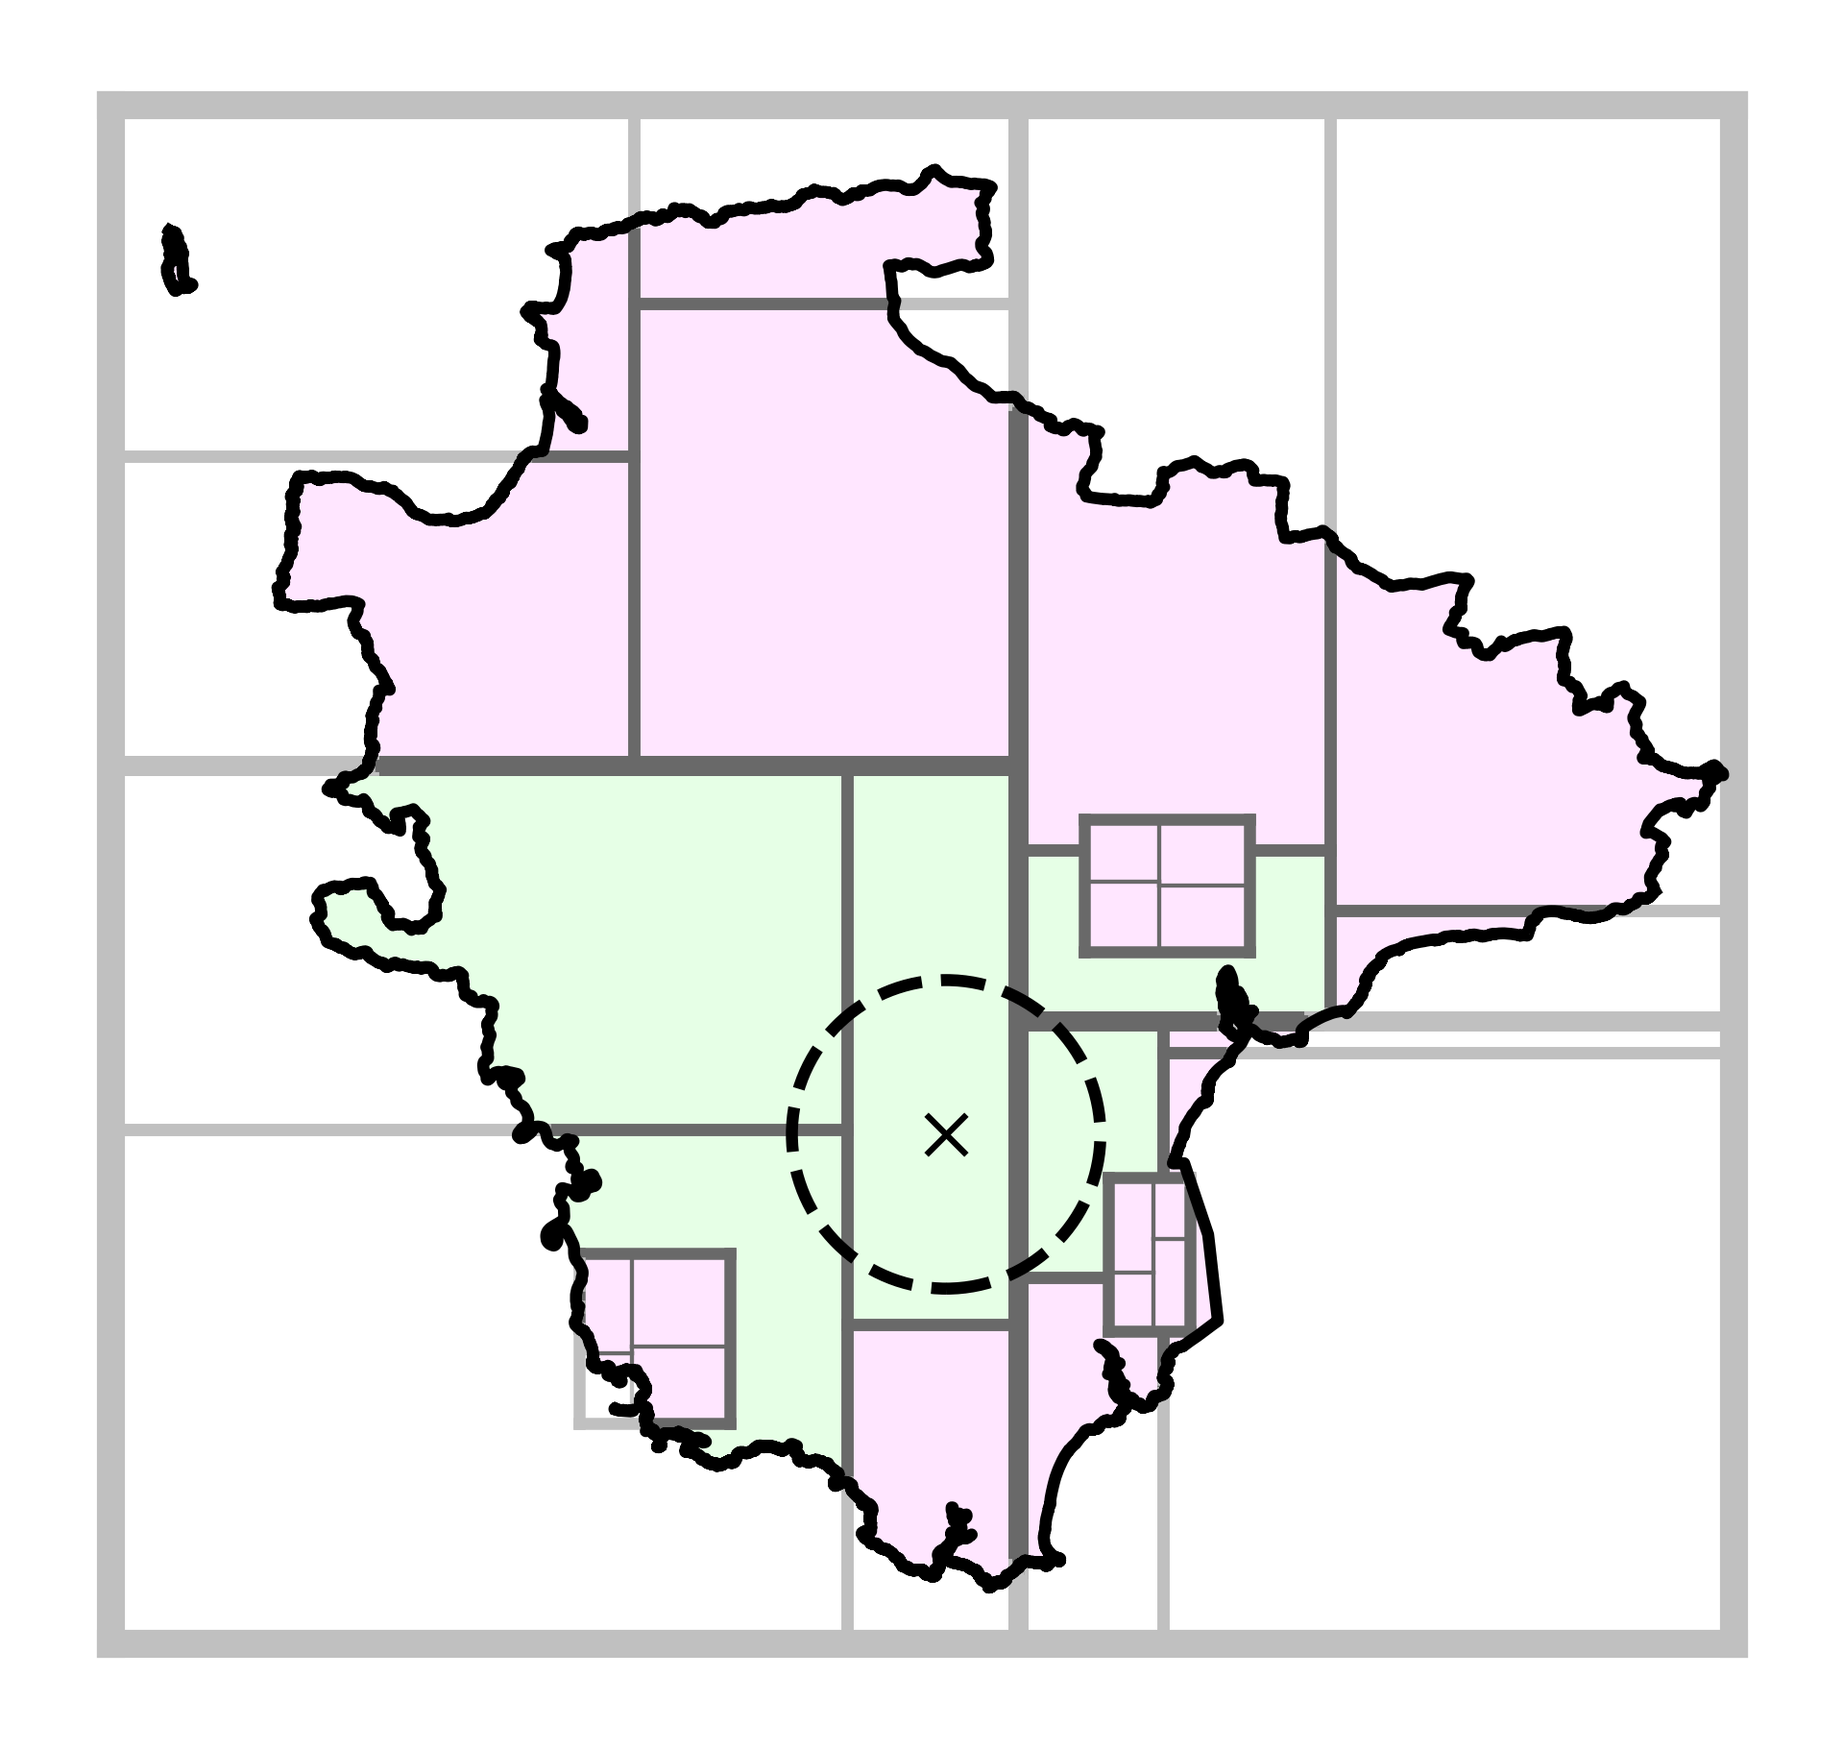
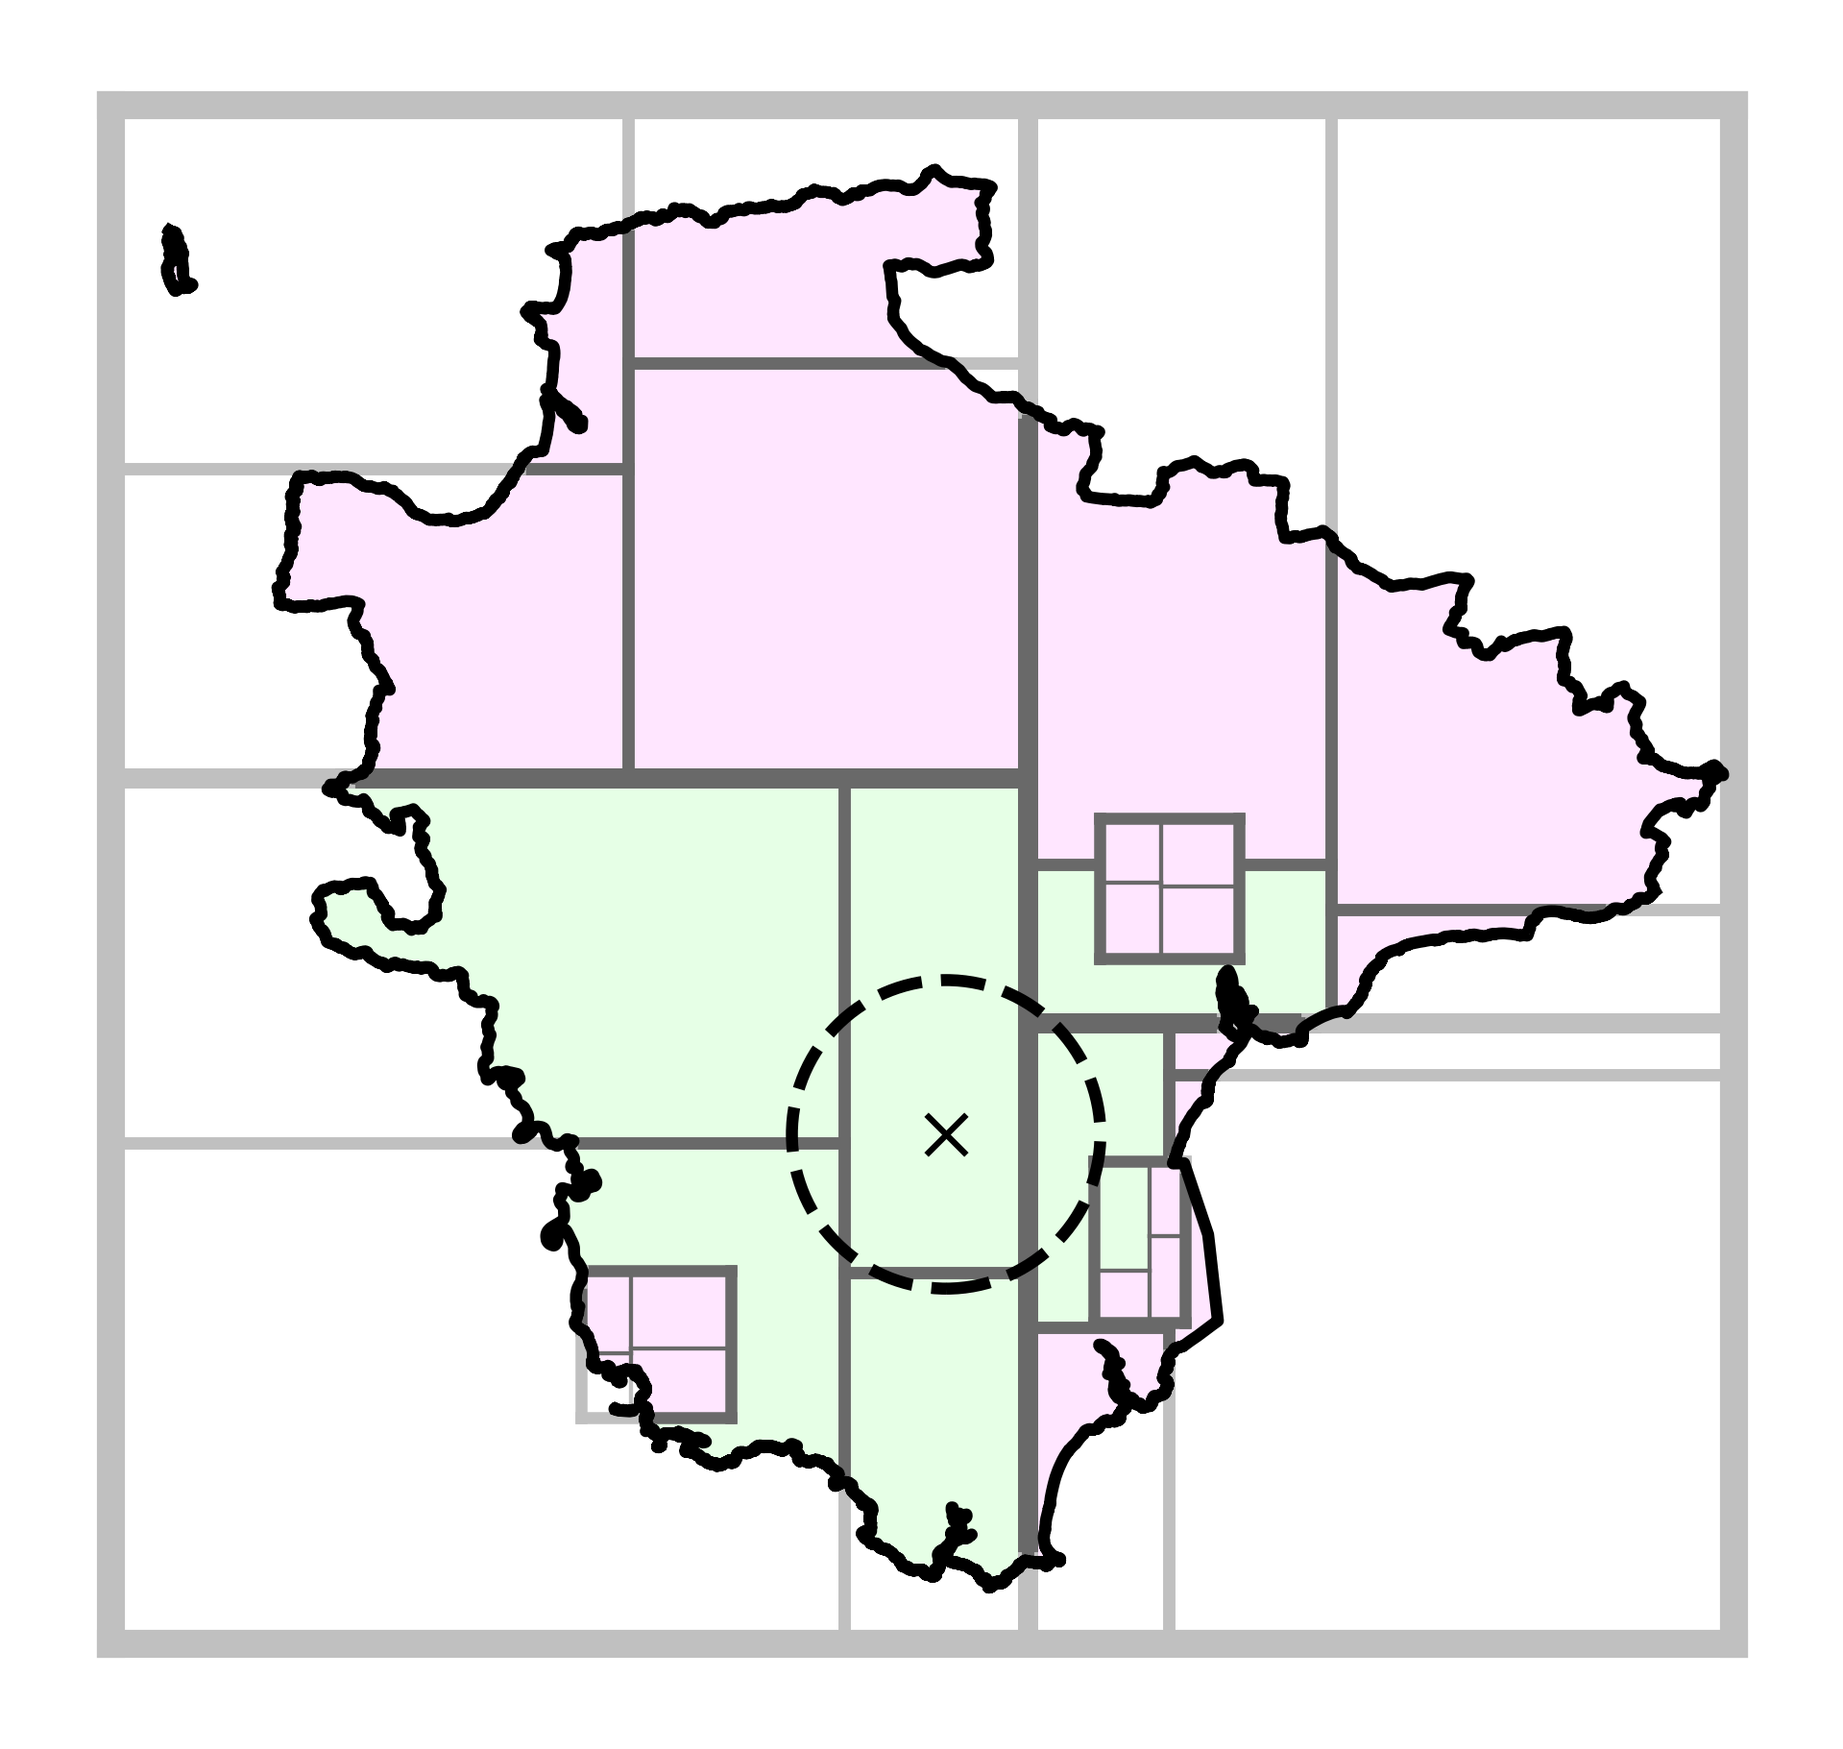
help me

diff --git a/run_tests.py b/run_tests.py
@@ -85,7 +85,7 @@ class test_case(BaseEstimator):
         return {}
     def fit(self, X=None, y=None):
         runs = []
-        for _ in range(3):
+        for _ in range(4):
             self.run(**X)
             runs.append(self.times[-1])
 
@@ -163,11 +163,12 @@ class test_case(BaseEstimator):
             if 'w' in locals():
                 try: os.close(w)
                 except: pass
+        time.sleep(0.5)
 
 class good_case(test_case):
     def __init__(self):
         super().__init__()
-        self.label = "Good"
+        self.label = "R* Tree"
     def subp(self,filename:str, tab:str, col:str, queries_file:str,w):
         return subprocess.Popen(["bin/goodtest",filename,tab,col,queries_file,str(w)],pass_fds=(w,))
 
@@ -194,7 +195,7 @@ class m1_case(test_case):
         super().__init__()
         self.ind_depth = ind_depth
         self.pnum = pnum
-        self.label = "M1"
+        self.label = "Index-Ranges"
     @classmethod
     def get_param_grid(cls):
         return {"ind_depth": [4,6], "pnum": [16,32,64]}
@@ -210,7 +211,7 @@ class m2_case(test_case):
         super().__init__()
         self.ind_depth = ind_depth
         self.min_leaf = min_leaf
-        self.label = "M2"
+        self.label = "Grid"
     @classmethod
     def get_param_grid(cls):
         return {"ind_depth": [4,6], "min_leaf": [128,256]}
@@ -224,7 +225,7 @@ class m3_case(test_case):
         self.b_dep = b_dep
         self.c_min = c_min
         self.c_dep = b_dep
-        self.label = "M3"
+        self.label = "Grid+Clustering"
     @classmethod
     def get_param_grid(cls):
         return {"b_min": [64,128,256], "c_min": [64,128,256],"b_dep":[4],"c_dep":[4]}
@@ -275,14 +276,15 @@ def select_best_from_list(cases:list[test_case]):
             best[i.label] = i
     return best
 
-def graph_final_results(cases:list[test_case]):
+def graph_final_results(cases:list[test_case],flag):
+    fig,ax = plt.subplots(figsize=(10,10))
     xlabs = []
     y = []
     best = select_best_from_list(cases)
     for case in best.values():
         y.append(case.times)
         xlabs.append(case.label)
-    bp = plt.boxplot(y,patch_artist=True,tick_labels=xlabs,showfliers=False)
+    bp = ax.boxplot(y,patch_artist=True,tick_labels=xlabs,showfliers=False)
     for patch in bp['boxes']:
         patch.set_facecolor('mediumseagreen')
         for median in bp['medians']:
@@ -290,13 +292,17 @@ def graph_final_results(cases:list[test_case]):
             median.set_linewidth(2)
 
     #adds labels, title, etc to graph
-    plt.yscale('log',base=10)
-    plt.ylabel("log(time)")
-    plt.title("Average time taken for each test case")
-    plt.grid(axis='y', linestyle='-', alpha=0.5)
+    ax.set_yscale('log',base=10)
+    ax.set_ylabel("log(time)",fontsize=16)
+    ax.tick_params(axis='both', labelsize=20)    
+    if flag == 0:
+        ax.set_title("Times taken to execute a set of queries on the whole dataset",fontsize=20)
+    else:
+        ax.set_title("Times taken to execute a set of queries on the clusters",fontsize=20)
+    ax.grid(axis='y', linestyle='-', alpha=0.5)
 
-    plt.savefig("img/res.png",bbox_inches="tight",dpi=300)
-    plt.show()
+    fig.savefig("img/res"+str(int(time.time()))+".png",bbox_inches="tight",dpi=300)
+    plt.close(fig)
 
 
 
@@ -373,72 +379,36 @@ def write_out_queries(filename:str, queries: list[query]):
     print("written queries to file!\n")
 
 
+def rt(name,flag,reps):
+    qname = "data/"+name
+    cluster.clustering(qname+".dat")
+    if flag == 0:
+        query.generate_query_set(qname+".sqlite",name,"cent",256,32,32,4096,qname+".queries")
+    else:
+        query.generate_clus_query_set(qname+".sqlite",name,"cent",256,qname+".lizard",qname+".queries")
 
-if __name__ == "__main__":
+    
+    X = {"filename": qname + ".sqlite","tab": name,"col": "cent","queries_file": qname + ".queries"}
+    X1 = {"filename": qname + ".sqlite","tab": name,"col": "cent","queries_file": qname + ".queries", "clus": qname+".lizard"}
 
-    for i in range(1,len(sys.argv)):
+    cases = []
+    #cases.append(naive_case.optimise(X))
+    cases.append(good_case.optimise(X))
+    cases.append(m1_case.optimise(X))
+    cases.append(m2_case.optimise(X))
+    m3c = m3_case.optimise(X1)
+    for case in cases:
+        for i in range(reps):
+            case.run(qname+".sqlite",name,"cent",qname+".queries")
+    for i in range(reps):
+        m3c.run(qname+".sqlite",name,"cent",qname+".queries",qname+".lizard")
+    cases.append(m3c)
+    test_case.serialise_list("data/"+name+str(int(time.time()))+".cases",cases)
 
-        name = sys.argv[i]
-        qname = "data/"+name
-        query.generate_query_set(qname+".sqlite",name,"cent",512,32,32,4096,qname+".queries")
-        cluster.clustering(qname+".dat")
-        query.generate_clus_query_set(qname+".sqlite",name,"cent",512,qname+".lizard",qname+".cqueries")
+    graph_final_results(cases,flag)
 
-        
-        X = {"filename": qname + ".sqlite","tab": name,"col": "cent","queries_file": qname + ".queries"}
-        X1 = {"filename": qname + ".sqlite","tab": name,"col": "cent","queries_file": qname + ".queries", "clus": qname+".lizard"}
-
-        cases = []
-        cases.append(naive_case.optimise(X))
-        cases.append(good_case.optimise(X))
-        cases.append(m1_case.optimise(X))
-        cases.append(m2_case.optimise(X))
-        m3c = m3_case.optimise(X1)
-        for case in cases:
-            for i in range(15):
-                case.run(qname+".sqlite",name,"cent",qname+".queries")
-        for i in range(15):
-                m3c.run(qname+".sqlite",name,"cent",qname+".queries",qname+".lizard")
-        cases.append(m3c)
-        test_case.serialise_list("data/"+name+".cases",cases)
-
-        graph_final_results(cases)
+rt(sys.argv[1],0,int(sys.argv[2]))
+time.sleep(5)
+rt(sys.argv[1],1,int(sys.argv[2]))
 
 
-"""
-        t1 = time.time()
-        #query.generate_clus_query_set(qname+".sqlite",name,"cent",10,qname+".lizard",qname+".cqueries")
-        cases = []
-        cases.append(naive_case())
-        cases.append(good_case())
-        #cases.append(index_case(6))
-        #cases.append(index_case(8))
-        #cases.append(m1_case(6,64))
-        cases.append(m1_case(6,16))
-        cases.append(m2_case(4,256))
-        #cases.append(m2_case(4,128))
-        cases.append(m3_case(4,256,4,64,qname+".lizard"))
-        #cases.append(m3_case(4,64,4,64,qname+".lizard"))
-        #test_case.serialise_list("test.json",cases)
-        #cases2 = test_case.deserialise_list("test.json")
-        print("initialising database")
-        subprocess.run(["./bin/reset",qname+".sqlite",name])
-        print(len(cases))
-        for case in cases:
-            for i in range(3):
-                #fix iteration so we don't have to make the partitioning each time
-                print(case.label)
-                case.run(qname+".sqlite",name,"cent",qname+".queries")
-                sleep(0.142857)
-
-        print("final times for each case:")
-        for case in cases:
-            print(sum(case.times)/len(case.times))
-        graph_final_results(cases) 
-        #graph_separate(cases2,(2,2))
-        test_case.serialise_list("results/"+name+".dat",cases)
-    t2 = time.time()
-    print("real time taken: "+str(t2-t1))
-
-    #cleanup
-    """

diff --git a/src/m1.c b/src/m1.c
@@ -263,8 +263,6 @@ void beter15(sqlite3 *db, char *tab, char *col, char *ind, double x, double y, d
 		dbr->ranges[p_count] = newr;
 		p_count++;
 	}
-	printf("rl len is %d\n", rl->len);
-	printf("p_count is %d\n", p_count);
 	range **new_r = realloc(dbr->ranges,p_count*sizeof(range *));
 	dbr->ranges = new_r;
 	dbr->len = p_count;
@@ -335,7 +333,6 @@ void beter2(sqlite3 *db, char *tab, char *col, char *ind, double x, double y, do
 	normalise_bbox(b, world);
 	rangelist *rl = get_ranges(b,base,ind_depth); 
 	for (int i=0;i<rl->len;i++){
-		printf("range is %d %d\n", rl->ranges[i]->start, rl->ranges[i]->end);
 	}
 		
 	char r_sql[256];
@@ -352,8 +349,6 @@ void beter2(sqlite3 *db, char *tab, char *col, char *ind, double x, double y, do
 		dbr->ranges[p_count] = newr;
 		p_count++;
 	}
-	printf("rl len is %d\n", rl->len);
-	printf("p_count is %d\n", p_count);
 	range **new_r = realloc(dbr->ranges,p_count*sizeof(range *));
 	dbr->ranges = new_r;
 	dbr->len = p_count;
@@ -410,8 +405,6 @@ void beter2(sqlite3 *db, char *tab, char *col, char *ind, double x, double y, do
 	int id;
 	double rad2 = rad * rad;
 	for (int i =0;i<r_count;i++){
-		printf("part is %d\n", i);
-		printf("range is %d %d\n", part_ranges->ranges[i]->start, part_ranges->ranges[i]->end);
 		snprintf(sql,sizeof(sql),"SELECT ogc_fid, geom FROM %s_part_%d WHERE %s BETWEEN ? AND ?", tab, parts[i], ind);
 		sqlite3_prepare_v2(db,sql,-1,&get_stmt,NULL);
 		sqlite3_bind_int(get_stmt,1,part_ranges->ranges[i]->start);

diff --git a/cluster.py b/cluster.py
@@ -200,22 +200,23 @@ def graph_clusters(points, labels,bboxes, shapefile=None):
     ax.set_axis_off()
 
     colors = np.array(["lightcoral","mediumseagreen", "cornflowerblue", "orchid", "orange", "turquoise", "mediumslateblue", "pink", "#000000"])
-    ax.set_xlim(-470000,-370000)
-    ax.set_ylim(6480000,6580000)
+    ax.set_xlim(-480000,-370000)
+    ax.set_ylim(6480000,6590000)
     if shapefile:
         region = gpd.read_file(shapefile)
         region = region.to_crs(epsg=3857)
         #scol = (14/16, 255/256, 14/16)
         scol = "palegoldenrod"
         region.plot(ax=ax, color=scol, edgecolor="black")
-    ax.scatter(points[:, 0], points[:, 1], s=32, color=colors[labels],marker=".",)
+    ax.scatter(points[:, 0], points[:, 1], s=12, color=colors[labels])
 
     for b in bboxes:
         print(b)
-        rectangle = patches.Rectangle((b[0], b[1]), b[2]-b[0], b[3]-b[1], linewidth=2, edgecolor='sienna', fill=False)
+        rectangle = patches.Rectangle((b[0], b[1]), b[2]-b[0], b[3]-b[1], linewidth=6, edgecolor='sienna', fill=False)
         ax.add_patch(rectangle)
-    plt.savefig("img/clus_"+str(time.time())+".png",bbox_inches="tight",dpi=300)
-    plt.show()
+    fig.savefig("img/clus_"+str(int(time.time()))+".png",bbox_inches="tight",dpi=300)
+    plt.close(fig)
+    #plt.show()
 
 def clustering(filename,shapefile=None):
     data = get_data(filename)

diff --git a/src/m3.c b/src/m3.c
@@ -10,7 +10,7 @@ Node2 **make_trees(point **points, int pnum, bbox *bounds, bbox **clusters, int 
 //from then, it's easy: we can call the regular functions with the trees and such
 //
 	point ***p = malloc((cluster_count+1)*sizeof(point **));
-	printf("cluster count is %d\n", cluster_count);
+	//printf("cluster count is %d\n", cluster_count);
 	int pcount[cluster_count+1];
 	for (int i = 0;i<cluster_count+1;i++){p[i] = malloc(pnum*sizeof(point *));pcount[i]=0;} //we can and will realloc later #this line is overflowing somehow when c_count > 1
 	for (int i=0;i<pnum;i++){
@@ -46,7 +46,7 @@ void partition_through_multiple_trees(sqlite3 *db, char *tab, char *col, char *i
 	char name[256];
 	for (int i=0;i<c_count+1;i++){
 		snprintf(name,sizeof(name),"%s_%d",partname,i);
-		printf("%s\n", name);
+		//printf("%s\n", name);
 		add_node_part_help(db,tab,col,ind,n[i],name);
 	}
 	printf("added tables!\n");

diff --git a/src/m2.c b/src/m2.c
@@ -242,13 +242,11 @@ void add_node_part_help(sqlite3 *db, char *tab, char *col, char *ind, Node2 *n, 
 				char name[256];
 				char sql[256];
 				snprintf(name,sizeof(name),"%s_%s_%d",tab,partname,n->ind);
-				printf("name is %s\n", name);
 				snprintf(sql,sizeof(sql), "CREATE TABLE %s (ogc_fid INTEGER NOT NULL PRIMARY KEY, %s INTEGER NOT NULL)",name, ind);
 				if(sqlite3_exec (db, sql, NULL, NULL, NULL)!=SQLITE_OK){printf("error: %s\n", sqlite3_errmsg(db));}
 				//add geometry column
     				snprintf(sql,sizeof(sql),"SELECT AddGeometryColumn(\'%s\', 'geom', 3857, 'POINT', 2)",name);
     				if(sqlite3_exec (db, sql, NULL, NULL, NULL)!=SQLITE_OK){printf("error: %s\n", sqlite3_errmsg(db));}
-				printf("completed adding part!\n");
 		}else{
 				for (int i=0;i<4;i++){
 						add_node_part_help(db,tab,col,ind,n->children[i],partname);

diff --git a/graph_cases.py b/graph_cases.py
@@ -101,7 +101,7 @@ def draw_range_query(points,shapefile=None):
     if len(points) == 0:
         points = np.random.rand(100, 2)
     radius = 28571
-    fig,ax=plt.subplots()
+    fig,ax=plt.subplots(figsize=(10,10))
     ax.get_xaxis().set_visible(False)
     ax.get_yaxis().set_visible(False)
     #ax.set_title("Example of a range query on spatial data")
@@ -250,8 +250,7 @@ def draw_range_partitions():
 
 
 if __name__ == "__main__":
-    draw_multiple_hilbert([1,2,4,6],(2,2))
-    """
+    #draw_multiple_hilbert([1,2,4,6],(2,2))
     if len(sys.argv) < 4:
         print("how to use: (db_name) (data_name) (sample size) optional: shapefile")
         quit()
@@ -260,4 +259,3 @@ if __name__ == "__main__":
         draw_range_query(p,sys.argv[4])
     else:
         draw_range_query(p)
-    """

diff --git a/draw3.py b/draw3.py
@@ -241,7 +241,7 @@ def graph_m3(filename, tab, col, sam, min_leaf,min_leaf_base,clus):
     #now we merge them into a new set of bboxes that have normal split edges
 
         #graphing time, i suppose!
-    fig,ax=plt.subplots()
+    fig,ax=plt.subplots(figsize=(10,10))
     """
     ax.set_xlim(min(float(t[0]) for t in bboxes)-1, max(float(t[2]) for t in bboxes)+1)
     ax.set_ylim(min(float(t[1]) for t in bboxes)-1, max(float(t[3]) for t in bboxes)+1)

diff --git a/src/grid.c b/src/grid.c
@@ -33,7 +33,7 @@ bbox *create_bbox(double min_x, double min_y, double max_x, double max_y){
 }
 
 void print_bbox(bbox *b){
-	printf("bbox has min (%f %f), max (%f %f)\n", b->min_x, b->min_y, b->max_x, b->max_y);
+	//printf("bbox has min (%f %f), max (%f %f)\n", b->min_x, b->min_y, b->max_x, b->max_y);
 }
 
 rangelist *make_partitions_by_population(unsigned int *indices, int maxparts, int pcount, int depth, int grouping) {

diff --git a/draw_bboxes.py b/draw_bboxes.py
@@ -127,7 +127,7 @@ def graph_m2(filename, tab, col, sam, min_leaf,shapefile=None):
         print(boax)
     """
         #graphing time, i suppose!
-    fig,ax=plt.subplots(figsize=(8,8))
+    fig,ax=plt.subplots(figsize=(10,10))
     """
     ax.set_xlim(min(float(t[0]) for t in bboxes)-1, max(float(t[2]) for t in bboxes)+1)
     ax.set_ylim(min(float(t[1]) for t in bboxes)-1, max(float(t[3]) for t in bboxes)+1)

diff --git a/graph_m1.py b/graph_m1.py
@@ -68,7 +68,7 @@ def main(name,shapefile=None):
     print(y_len)
     cur.close()
     #fig,ax=plt.subplots(facecolor="cornflowerblue")
-    fig,ax=plt.subplots(facecolor="lightgray")
+    fig,ax=plt.subplots(facecolor="lightgray",figsize=(10,10))
 
     ax.set_xlim(b[0]-2000, b[2]+2000)
     ax.set_ylim(b[1]-2000,b[3]+2000)

diff --git a/src/query_gen_clus.c b/src/query_gen_clus.c
@@ -24,7 +24,7 @@ int main(int argc, char *argv[]){
 	float rad;
 	for (int i=0;i<bnum;i++){
 		bbox_get_lengths(clus[i],&xlen,&ylen);
-		float size = sqrt(xlen*ylen/4);
+		float size = sqrt(xlen*ylen/8);
 
 		for (int j=0;j<no;j++){
 			f = ((float)rand())/RAND_MAX;
